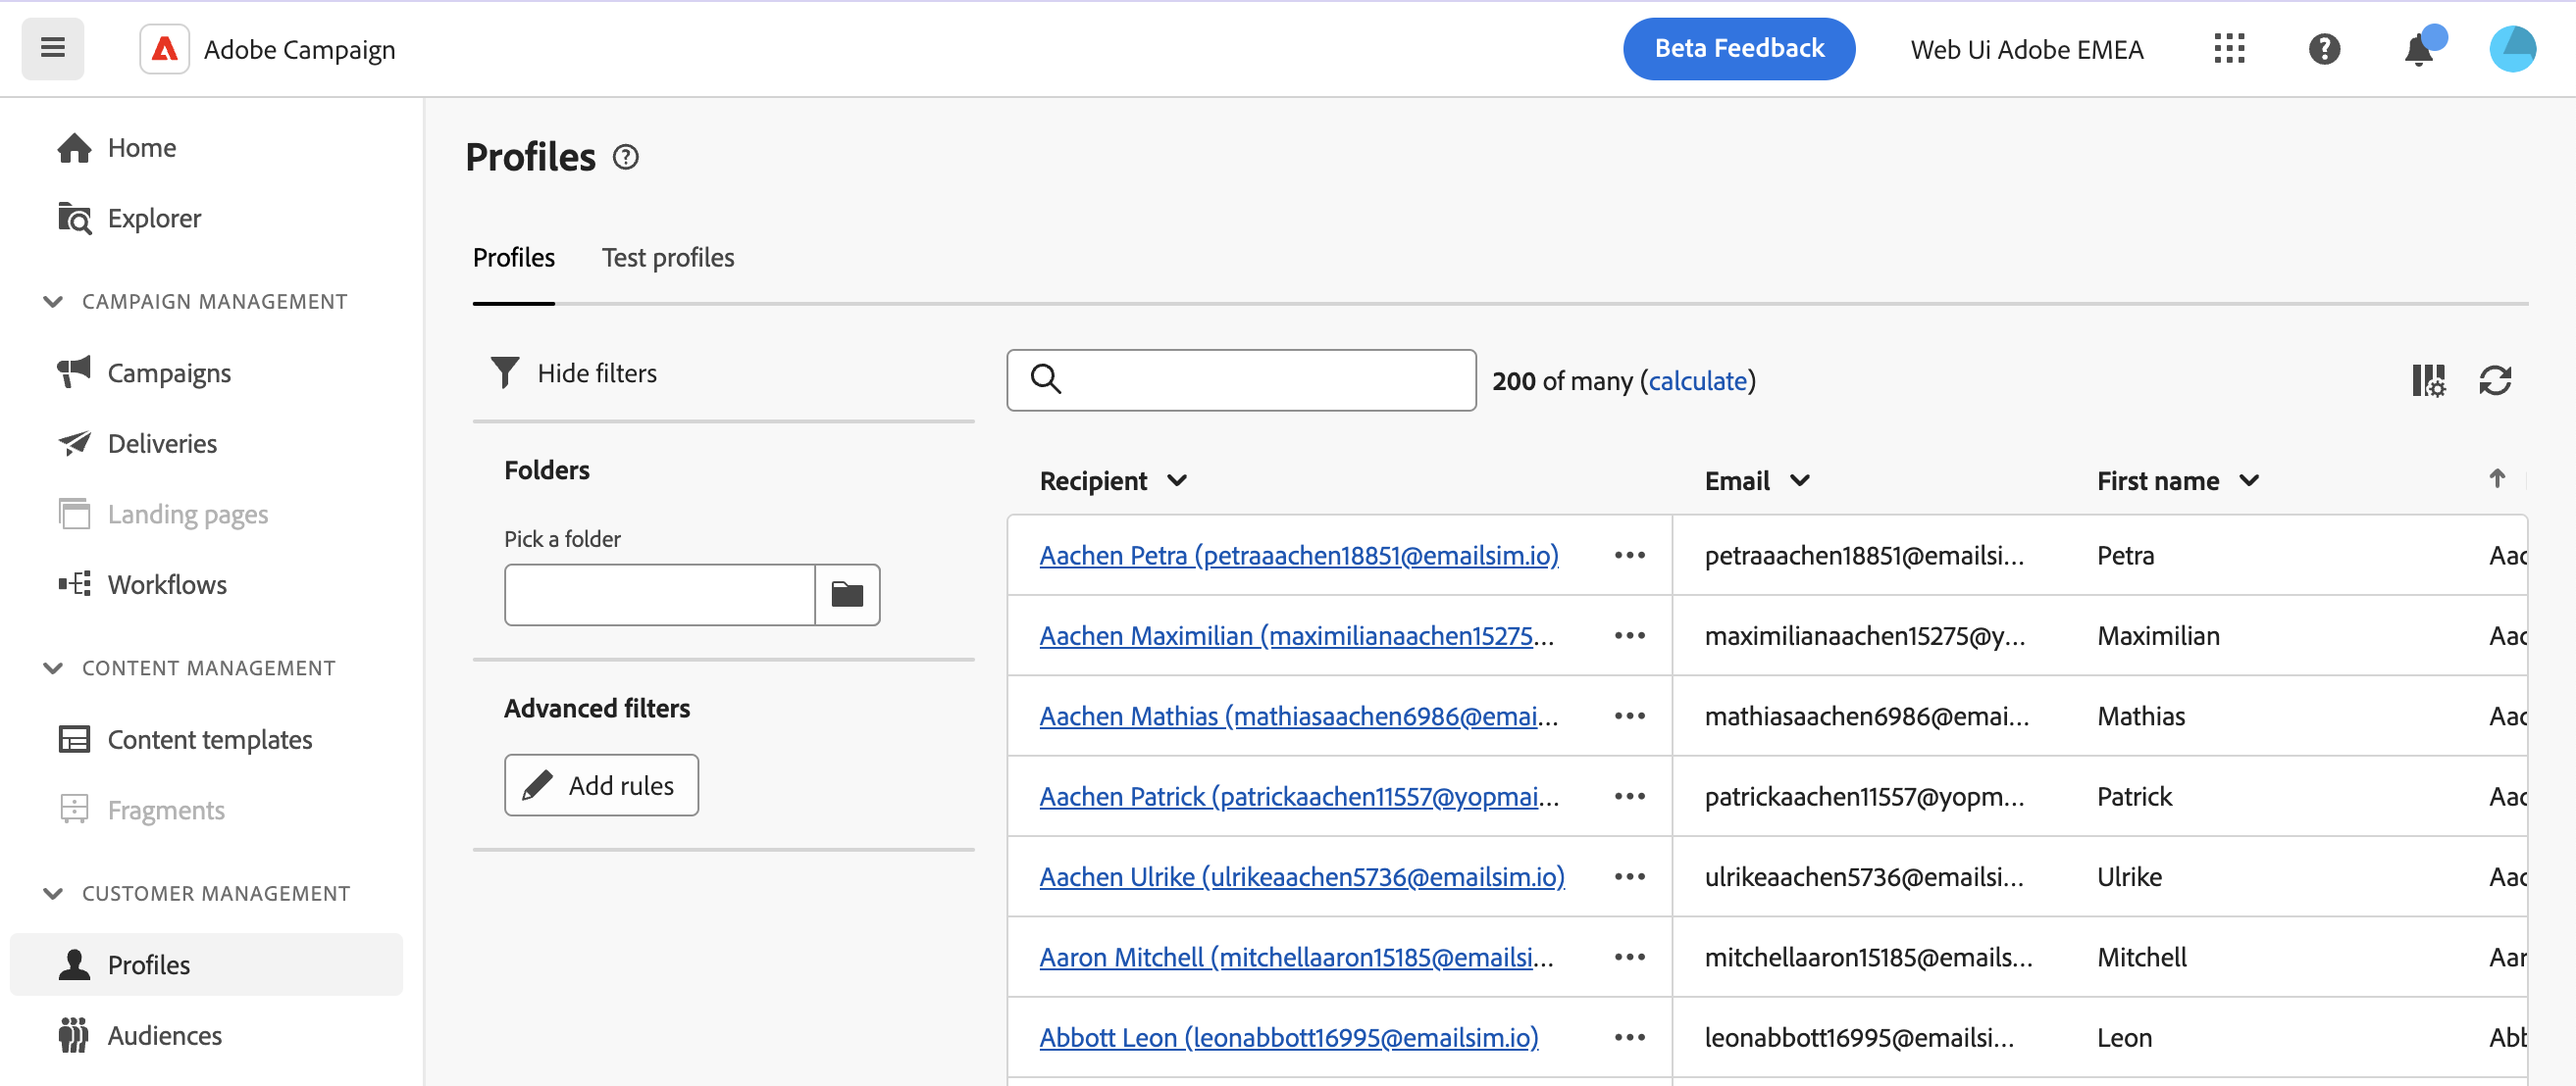
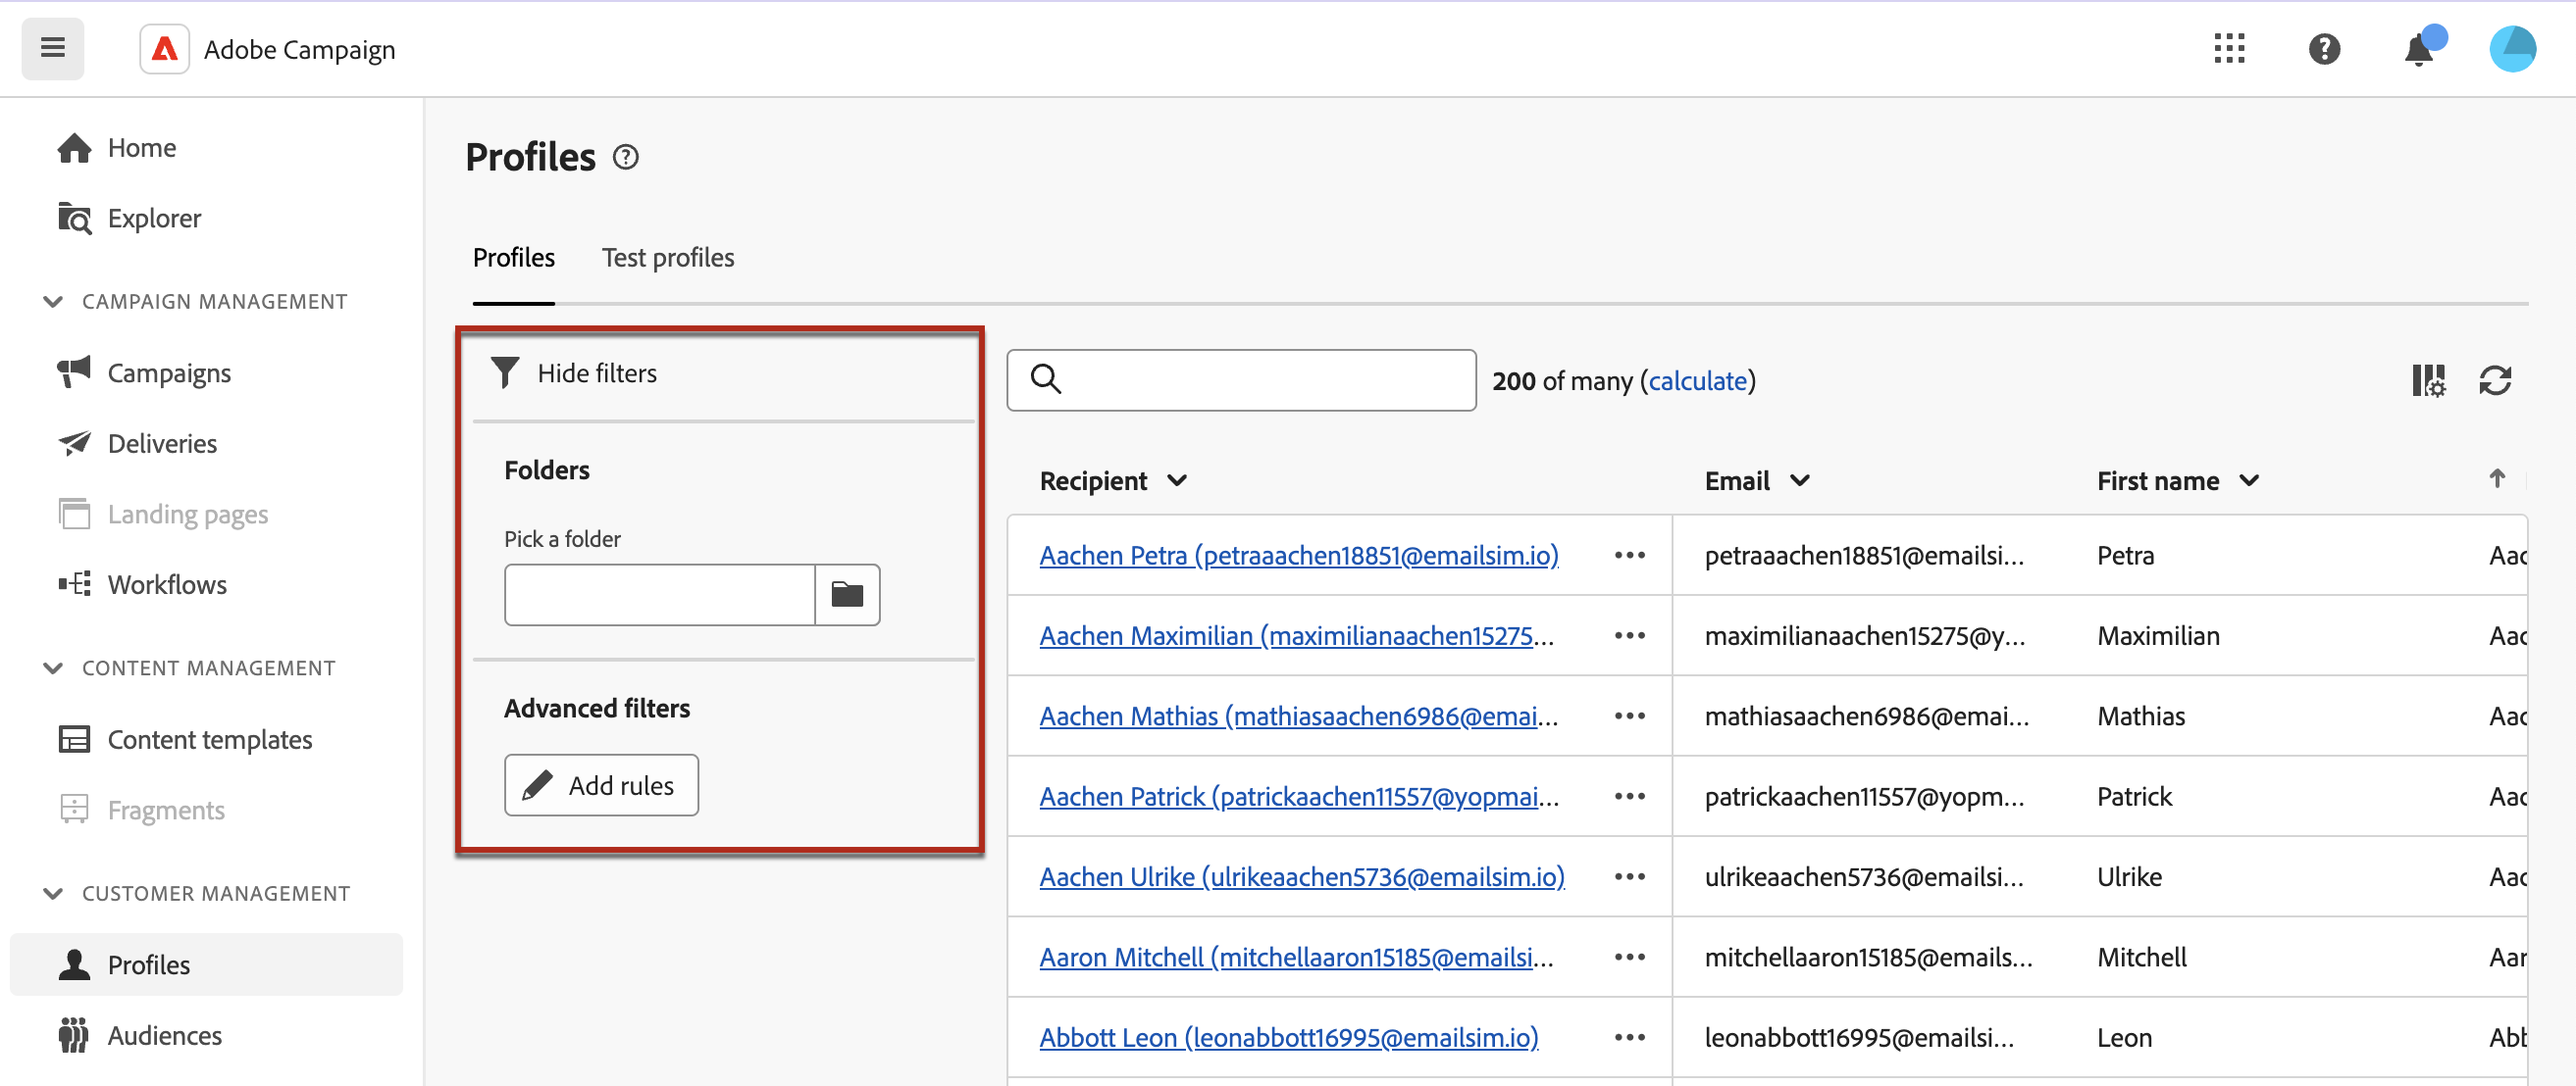
profiles and test profiles updates

Changed region(s): [[0.1561, 0.2762, 0.4059, 0.7978], [0.6245, 0.0, 0.8431, 0.0921]]

diff --git a/help/v8/audience/about-recipients.md b/help/v8/audience/about-recipients.md
@@ -18,17 +18,31 @@ badge: label="Limited Availability"
 
 ## Get started with profiles {#gs}
 
-A profile in Adobe Campaign Web is an individual stored in the database, serving as a key component to create audiences for deliveries and add personalization data to your content. Various types of profiles are stored in the database such as Test profiles, which are designed to test your deliveries before they are sent to the final audience. [Learn how to work with test profiles](test-profiles.md)
+A profile in Adobe Campaign Web is an individual stored in the database, serving as a key component to create audiences for deliveries and add personalization data to your content.
 
-Profiles can be added from the Campaign client console only. However, they are accessible in Adobe Campaign Web from the **Profiles** entry in the left navigation rail. You can also access them from the **Explorer** view, where you can browse, create folders, subfolders, and check associated permissions.
+Other types of profiles are stored in the database such as **[!UICONTROL Test profiles]**, which are designed to test your deliveries before they are sent to the final audience. [Learn how to work with test profiles](test-profiles.md)
 
-You can filter the profiles list using the search field or filters available from the **Show filters** button.
-
-![](assets/profiles-list.png)
+Profiles can be created from the Adobe Campaign client console only - [learn how](https://experienceleague.adobe.com/docs/campaign/campaign-v8/audience/add-profiles/create-profiles.html){target="_blank"}. However, they are accessible and editable in Adobe Campaign Web from the **[!UICONTROL Customer management]** > **Profiles** entry in the left navigation rail.
 
 >[!NOTE]
 >
 >Depending on your permissions, you might not have access to the full list of profiles stored in the database. Learn more about permissions in [this section](../get-started/permissions.md).
+
+* You can filter the **[!UICONTROL Profiles]** list using the search field or filters available from the **Show filters** button. You can restrict the results to a specific [folder](../get-started/permissions.md#folders) using the drop-down list, or add rules using the [query modeler](../query/query-modeler-overview.md).
+
+    ![](assets/profiles-list.png)
+
+* To delete a profile, select the corresponding option from the **[!UICONTROL More actions]** menu.
+
+* To edit a profile, click the desired item from the list. [Learn more](#access)
+
+You can also access profiles through the **[!UICONTROL Explorer]** view, from the **[!UICONTROL Profiles & Targets]** > **[!UICONTROL Recipients]** node.
+
+From there you can browse, create and manage folders or subfolders, as well as check associated permissions. [Learn how to create folders](../get-started/permissions.md#folders)
+
+![](assets/profiles-explorer-folder.png)
+
+From the **[!UICONTROL Explorer]** view you can also filter, delete and [edit](#access) profiles.
 
 ## Access & edit profiles' attributes {#access}
 
@@ -72,12 +86,36 @@ You can filter the profiles list using the search field or filters available fro
 >title="Recipients subscriptions list"
 >abstract="This tab lists all the services the profile is subscribed to."
 
-To access the details of a profile, click on its name in the profiles list. 
+To access the details of a profile and edit them, follow the steps below.
 
-![](assets/profiles-details.png)
+1. Browse to **[!UICONTROL Customer management]** > **[!UICONTROL Profiles]**.
 
-From this screen, you can access detailed information on the profile:
+1. Click the desired item from the **[!UICONTROL Profiles]** list. 
 
-* The **[!UICONTROL Details]** tab allows you to browse through the profile's built-in and custom attributes. To edit an attribute, make changes in the desired field and click the **[!UICONTROL Save]** button.
-* The **[!UICONTROL Subscriptions]** tab provides information on the services the profile is subscribed to. [Learn how to work with subscription services](manage-services.md)
-* The **[!UICONTROL Logs]** button located in the upper-right corner of the screen allows you to view an history of the profile's interactions through sending, exclusion, and tracking logs as well as the propositions presented to the profile.
+1. You can access the detailed information on the profile.
+
+    ![](assets/profile-details.png)
+
+1. The **[!UICONTROL Details]** tab allows you to browse through the profile's built-in and custom attributes. To edit an attribute, make changes in the desired field and click the **[!UICONTROL Save]** button.
+
+    1. By default, profiles are stored in the **[!UICONTROL Recipients]** folder. You can change it by browsing to the desired location. [Learn how to work with folders](../get-started/permissions.md#folders)
+
+        ![](assets/profile-folder.png)
+
+    1. In the **[!UICONTROL Contact information]** section, you can update the email address and other relevant data. The email address is displayed between brackets after the profile label.
+
+        ![](assets/profile-address.png)
+
+    1. Check the **[!UICONTROL No longer contact]** options and update them if needed. When any of these options is selected, the profile is on denylist. This information is added to the contact data if the recipient clicked on an unsubscription link in a newsletter for example. Such recipient is no longer targeted on the selected channel(s). [Learn more](https://experienceleague.adobe.com/docs/campaign/campaign-v8/send/failures/quarantines.html){target="_blank"}
+
+        ![](assets/profile-no-longer-contact.png)
+
+    1. If there are **[!UICONTROL Custom fields]**, you can update their values as needed. Custom fields are additional attributes added to the **[!UICONTROL Profiles]** schema through the Adobe Campaign console. [Learn more](https://experienceleague.adobe.com/docs/campaign/campaign-v8/developer/shemas-forms/extend-schema.html){target="_blank"}
+
+        ![](assets/profile-custom-fields.png)
+
+1. Click the **[!UICONTROL Subscriptions]** tab to access information on the services the profile is subscribed to. [Learn how to work with subscription services](manage-services.md)
+
+1. Click the **[!UICONTROL Logs]** button located in the upper-right corner of the screen to view the history of the profile's interactions through sending, exclusion, and tracking logs - as well as the offers presented to the profile. [Learn more on delivery logs](../monitor/delivery-logs.md)
+
+    ![](assets/profile-logs.png)

diff --git a/help/v8/audience/test-profiles.md b/help/v8/audience/test-profiles.md
@@ -29,15 +29,25 @@ To access the test profile list, select **[!UICONTROL Customer management]** > *
 
 ![](assets/test-profile-list.png)
 
-You can filter on a specific [folder](../get-started/permissions.md#folders) using the drop-down list or add rules using the [query modeler](../query/query-modeler-overview.md).
+* You can filter on a specific [folder](../get-started/permissions.md#folders) using the drop-down list or add rules using the [query modeler](../query/query-modeler-overview.md).
 
-![](assets/test-profile-list-filters.png)
+    ![](assets/test-profile-list-filters.png)
 
-To edit a test profile, click the desired item from the list.
+* You can duplicate any test profile and edit it as needed.
 
-To delete a test profile, select the corresponding option from the **[!UICONTROL More actions]** menu.
+* To delete a test profile, select the corresponding option from the **[!UICONTROL More actions]** menu.
 
-![](assets/test-profile-list-delete.png)
+    ![](assets/test-profile-list-delete.png)
+
+* To edit a test profile, click the desired item from the list.
+
+You can also access test profiles through the **[!UICONTROL Explorer]** view, from the **[!UICONTROL Resources]** > **[!UICONTROL Campaign Management]** > **[!UICONTROL Seed addresses]** node.
+
+From there you can browse, create and manage folders or subfolders, as well as check associated permissions. [Learn how to create folders](../get-started/permissions.md#folders)
+
+![](assets/test-profiles-folders.png)
+
+From the **[!UICONTROL Explorer]** view you can also filter, delete, edit and [create](#create-test-profile) test profiles.
 
 ## Create a test profile {#create-test-profile}
 
@@ -60,7 +70,7 @@ To create a test profile, follow the steps below.
     >
     >The **[!UICONTROL Label]** field is automatically filled in with the first name and last name you defined.
 
-1. By default, test profiles are stored in the **[!UICONTROL Seed addresses]** folder. You can change it by browsing to the desired location. [Learn more](#seed-addresses-folders)
+1. By default, test profiles are stored in the **[!UICONTROL Seed addresses]** folder. You can change it by browsing to the desired location. [Learn how to work with folders](../get-started/permissions.md#folders)
 
     ![](assets/test-profile-folder.png)
 
@@ -72,7 +82,7 @@ You do not need to enter all fields of each tab when creating a seed address. Mi
 
     ![](assets/test-profile-address.png)
 
-1. If you select the **[!UICONTROL No longer contact (by any channel)]** checkbox, the profile is on denylist. Such recipient is no longer targeted on any channel (email, SMS, etc.).
+1. If you select the **[!UICONTROL No longer contact (by any channel)]** checkbox, the test profile is on denylist. Such recipient is no longer targeted on any channel (email, SMS, etc.).
 
 1. In the **[!UICONTROL Additional data]** tab, enter the personalization data used for the deliveries created in the Data management workflows and which you want to assign a specific value to. [Learn more on workflows](../workflows/gs-workflows.md)
 
@@ -86,16 +96,5 @@ The test profile you just created is now ready to be used to send a test. [Learn
 
 <!--Use test profiles in Direct mail? cf v7/v8-->
 
-## Manage seed addresses folders {#seed-addresses-folders}
-
-Seed addresses are stored in a dedicated node of the Adobe Campaign hierarchy: **[!UICONTROL Explorer]** > **[!UICONTROL Resources]** > **[!UICONTROL Campaign Management]** > **[!UICONTROL Seed addresses]**.
-
-To organize test profiles, you can create subfolders from the More actions drop-down list. [Learn how to create folders](../get-started/permissions.md#folders)
-
-![](assets/test-profile-sub-folders.png)
-
-You can also create a test profile from any **[!UICONTROL Seed addresses]** folder or subfolder. Fill in all the details the same way you would do it from the **[!UICONTROL Customer Management]** > **[!UICONTROL Profiles]** menu. [Learn more](#create-test-profile)
-
-To edit a test profiles, click its label either from the **[!UICONTROL Test profiles]** tab or from the folder where it is stored.
 
 

diff --git a/help/v8/push/content-push.md b/help/v8/push/content-push.md
@@ -145,7 +145,7 @@ Advanced options depend on the mobile operating system: Android or iOS. Browse t
 |**[!UICONTROL Clean Badge]**| Enable this option to refresh the badge value displayed on the application icon. It ensures that the badge accurately reflects the number of new unread information.|
 |**[!UICONTROL Notification count]**| Set a number that will be displayed directly on the application icon, indicating the number of new unread information. This provides a quick visual reference for the user.|
 |**[!UICONTROL Volume]**| Volume of your sound from 0 to 100. |
-|**[!UICONTROL Mutable content]**| Enable this option to allow the mobile application to download media content associated with the notification. For more on this, refer to [Apple developer documentation](https://developer.apple.com/library/email/documentation/NetworkingInternet/Conceptual/RemoteNotificationsPG/ModifyingNotifications.html). |
+|**[!UICONTROL Mutable content]**| Enable this option to allow the mobile application to download media content associated with the notification. For more on this, refer to [Apple developer documentation](https://developer.apple.com/library/content/documentation/NetworkingInternet/Conceptual/RemoteNotificationsPG/ModifyingNotifications.html). |
 |**[!UICONTROL Relevance score]**| Set a relevance score from 0 to 100 to prioritize the order of notifications in the notification summary. Higher scores indicate more important notifications. |
 |**[!UICONTROL Interruption level]**|<ul> <li>**[!UICONTROL Active]**: Set by default, the system presents the notification immediately, lights up the screen, and can play a sound. Notifications do not break through Focus modes.</li><li>**[!UICONTROL Passive]**: The system adds the notification to the notification list without lighting up the screen or playing a sound. Notifications do not break through Focus modes.</li><li>**[!UICONTROL Time sensitive]**: The system presents the notification immediately, lights up the screen, can play a sound and break through Focus modes. This level does not require a special permission from Apple.</li> <li>**[!UICONTROL Critical]**: The system presents the notification immediately, lights up the screen, and bypasses the mute switch or focus modes. Note that this level requires a special permission from Apple.</ul>|
 |**[!UICONTROL Thread-id]**| Identifier used to group related notifications together. Notifications with the same thread ID are organized as a single conversation or thread in the notification list. |
